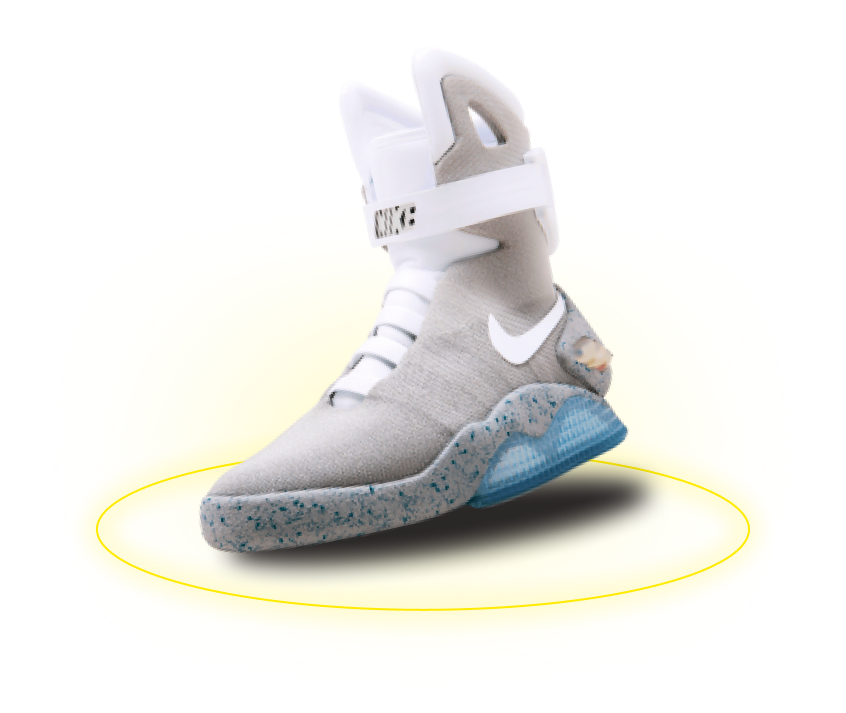
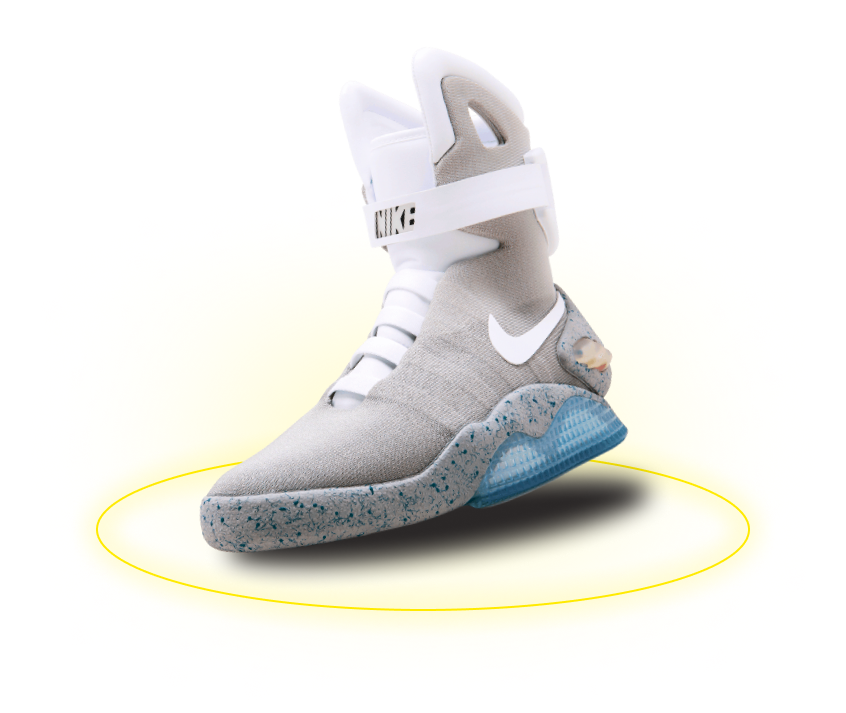
third commit

diff --git a/nike/index.html b/nike/index.html
@@ -104,13 +104,16 @@
 							Nike <span class="hero__title-accent">air</span> mag
 						</h1>
 					</header>
-					<img
-						class="hero__img"
-						src="./images/nike-air-mag-1.png"
-						width="846"
-						height="713"
-						alt="Кроссовок Nike Air Mag с желтым кольцом вокруг подошвы"
-					/>
+					<picture>
+						<source srcset="./images/nike-air-mag-1.webp" type="image/webp" />
+						<img
+							class="hero__img"
+							src="./images/nike-air-mag-1.png"
+							width="846"
+							height="713"
+							alt="Кроссовок Nike Air Mag с желтым кольцом вокруг подошвы"
+						/>
+					</picture>
 					<footer class="hero__footer">
 						<a class="hero__details" href="#">
 							Подробнее
@@ -122,6 +125,39 @@
 							</svg>
 						</a>
 					</footer>
+				</div>
+			</section>
+			<section id="air-mag" class="air-mag">
+				<div class="container">
+					<h2 class="air-mag__title title-md">Air Mag</h2>
+					<p class="air-mag__description text-regular">
+						Это не просто кроссовки — это шаг в будущее. С уникальным дизайном и
+						передовыми технологиями, эти кроссовки вдохновлены легендарной
+						киноделией и готовы сопровождать вас в любых приключениях.
+					</p>
+					<div class="air-mag__info-wrapper">
+						<picture>
+							<source srcset="./images/nike-air-mag-2.webp" type="image/webp" />
+							<img
+								class="air-mag__img"
+								src="./images/nike-air-mag-2.png"
+								width="911"
+								height="635"
+								loading="lazy"
+								alt="Кроссовки Nike Air Mag c желтым кольцом под подошвой"
+							/>
+						</picture>
+						<ul class="air-mag__info-list text-light">
+							<li class="air-mag__info-item">
+								инновационная технология амортизации, которая обеспечивает
+								непревзойденную поддержу суставов
+							</li>
+							<li class="air-mag__info-item">
+								высококачественные синтетические материалы для долговечности
+								и комфорта
+							</li>
+						</ul>
+					</div>
 				</div>
 			</section>
 		</main>

diff --git a/nike/css/blocks/air-mag.css b/nike/css/blocks/air-mag.css
@@ -1,0 +1,98 @@
+@media (width > 576px) {
+	.air-mag {
+		padding-bottom: 93px;
+	}
+
+	.air-mag__title {
+		margin-bottom: 10px;
+	}
+}
+
+@media (width <= 576px) {
+	.air-mag {
+		padding-bottom: 80px;
+	}
+
+	.air-mag__title {
+		margin-bottom: 13px;
+	}
+}
+
+.air-mag__description {
+	display: flex;
+	gap: 13px;
+}
+
+.air-mag__description::before {
+	content: "";
+	display: block;
+	flex-shrink: 0;
+	width: 131px;
+	height: 40px;
+	background-image: url("../../icons/rectangle-decor-icon.svg");
+	transform: translateX(-13px);
+}
+
+@media (width > 768px) {
+	.air-mag__description {
+		margin-bottom: 20px;
+	}
+}
+
+@media (width <= 768px) {
+	.air-mag__description {
+		flex-direction: column;
+		margin-bottom: 15px;
+	}
+}
+
+.air-mag__info-wrapper {
+	display: flex;
+}
+
+@media (width > 992px) {
+	.air-mag__info-wrapper {
+		gap: 40px;
+	}
+}
+
+@media (width <= 992px) {
+	.air-mag__info-wrapper {
+		flex-direction: column;
+	}
+}
+
+.air-mag__img {
+	width: 100%;
+}
+
+.air-mag__info-list {
+	display: flex;
+	flex-direction: column;
+}
+
+@media (width > 992px) {
+	.air-mag__info-list {
+		flex-shrink: 0;
+		gap: 40px;
+		max-width: 293px;
+		transform: translateY(71px);
+	}
+}
+
+@media (width <= 992px) {
+	.air-mag__info-list {
+		gap: 20px;
+		max-width: 700px;
+	}
+}
+
+.air-mag__info-item::before {
+	content: "";
+	display: block;
+	width: 46px;
+	height: 34px;
+	margin-bottom: 5px;
+	background-image: url(../../icons/double-checkbox-icon.svg);
+	transform: translateX(-8px);
+}

diff --git a/nike/css/base/globals.css b/nike/css/base/globals.css
@@ -2,6 +2,8 @@
 	font-family: var(--font-family);
 	font-weight: 400;
 	color: var(--main-color);
+	scroll-behavior: smooth;
+	scroll-padding-top: 98px;
 }
 
 .page__body {
@@ -18,8 +20,35 @@
 	margin-inline: auto;
 }
 
+img {
+	object-fit: cover;
+}
+
 a:focus-visible,
 button:focus-visible {
 	outline: 1px solid var(--accent-color);
 	outline-offset: 2px;
+}
+
+.text-light,
+.text-regular {
+	font-size: 16px;
+	line-height: 140%;
+	color: var(--main-color);
+}
+
+.text-light {
+	font-weight: 300;
+}
+
+.text-regular {
+	font-weight: 400;
+}
+
+.title-md {
+	font-weight: 600;
+	/* min-width 375px, max-width 992px*/
+	font-size: clamp(32px, 0.936rem + 4.54vw, 60px);
+	text-transform: uppercase;
+	color: var(--main-color);
 }

diff --git a/nike/css/index.css b/nike/css/index.css
@@ -9,3 +9,4 @@
 @import "./blocks/menu.css";
 @import "./blocks/burger.css";
 @import "./blocks/hero.css";
+@import "./blocks/air-mag.css";
